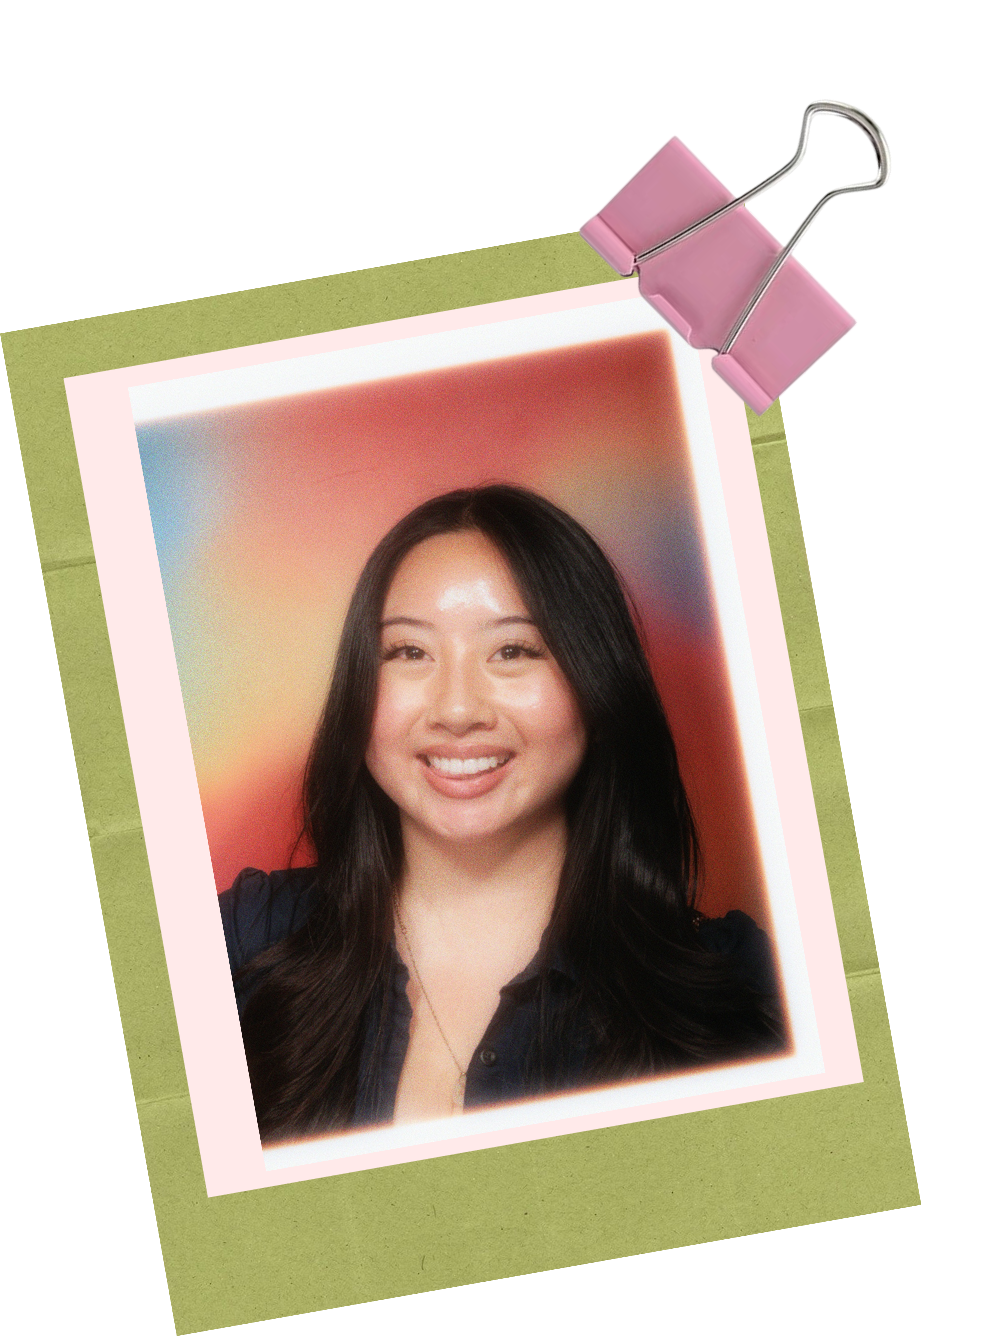
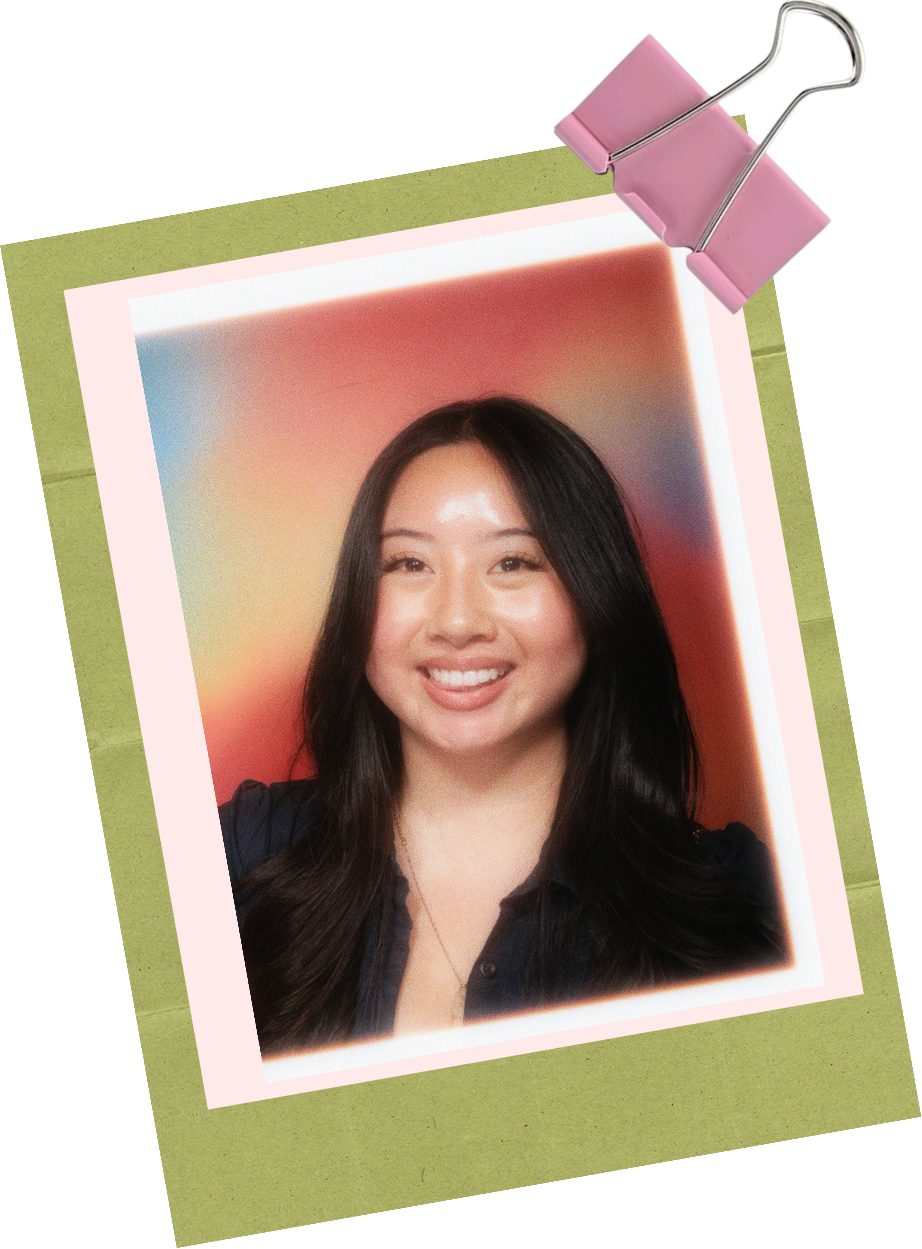
removed white space from headshot, fixed html form

diff --git a/index.html b/index.html
@@ -40,7 +40,7 @@ EMAIL: kaylett3@uci.edu
 
           <div class="intro glass">
             <div class="intro-text">
-              <h1>Kayleen Tran</h3>
+              <h1>Kayleen Tran</h1>
               <h2>Developer & Designer</h2>
 
               <p>
@@ -51,9 +51,8 @@ EMAIL: kaylett3@uci.edu
           </div>
 
           <div class="photo-stack">
-            <img src="images/photo-stack.png" />
+            <img src="images/photo-stack.png" alt="A headshot of Kayleen Tran">
           </div>
-
           
         </div>
 
@@ -65,14 +64,15 @@ EMAIL: kaylett3@uci.edu
         <div class="project">
             <div class="project-text">
               <h2>GutReport</h2>
-              <p>lorem ipsum dolor sit amet consectetur adipiscing elit optio id sed possimus ea qui praesentium sint voluptate incididunt ut accusamus sed eu fugiat provident repellendus fugiat deserunt eos incididunt voluptas vel culpa qui iusto eiusmod aliquip ad quas repellendus incididunt ducimus et amet deleniti eiusmod velit culpa rerum temporibus et
+              <p>
+                A mobile app and clinician dashboard that keeps young IBD patients connected to their doctors between check-ins. Patients track symptoms and medications; doctors monitor remotely and see who needs attention. Built with UC Irvine and CHOC, and shaped by feedback from the kids who use it.
               </p>
             </div>
 
             <div class="project-img">
-              <img src="images/screenie.PNG">
-              <img src="images/screenie.PNG">
-              <img src="images/screenie.PNG">
+              <img src="images/screenie.PNG" alt="Screenshot from GutReport Mobile App">
+              <img src="images/screenie.PNG" alt="Screenshot from GutReport Mobile App">
+              <img src="images/screenie.PNG" alt="Screenshot from GutReport Mobile App">
             </div>
 
         </div>

diff --git a/style.css b/style.css
@@ -49,7 +49,7 @@ body{
  {
     display: flex;
     align-items: center;
-    gap: 5%;
+    gap: 3%;
     margin-bottom : 3%;
  }
 .intro {
